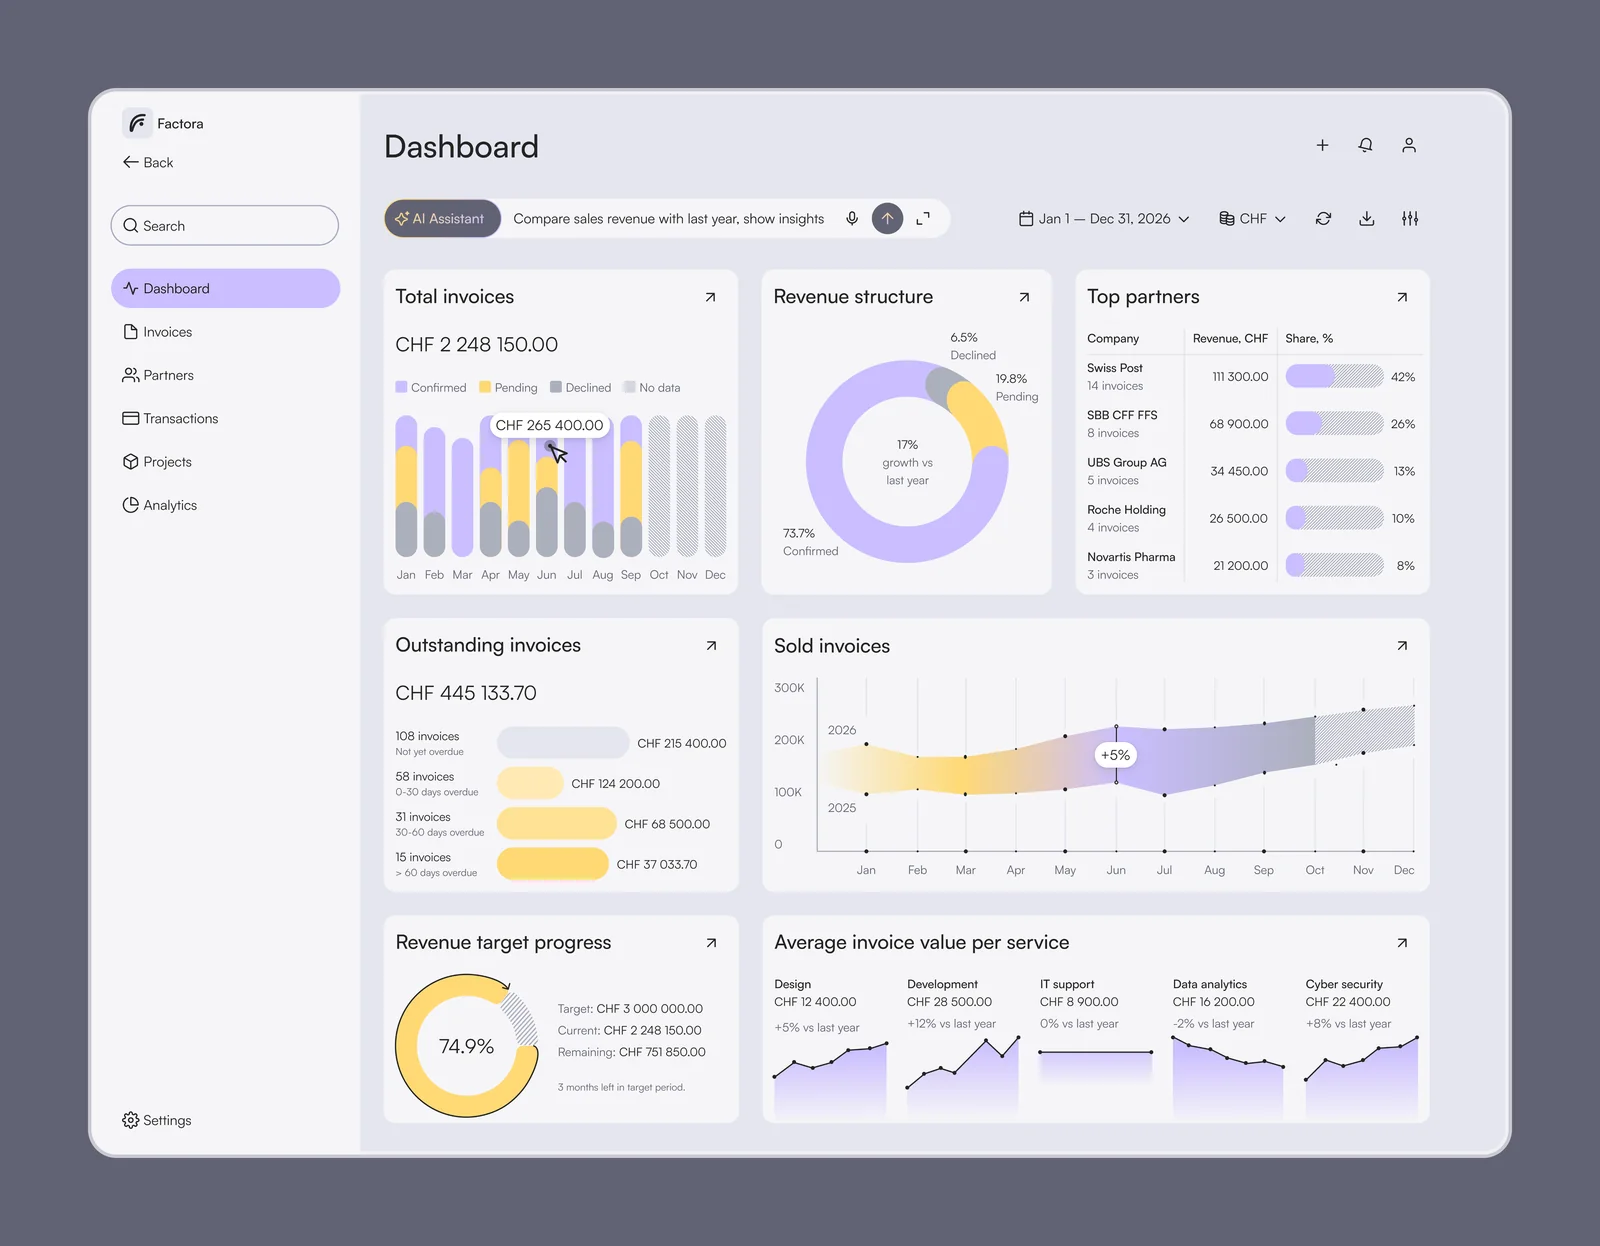
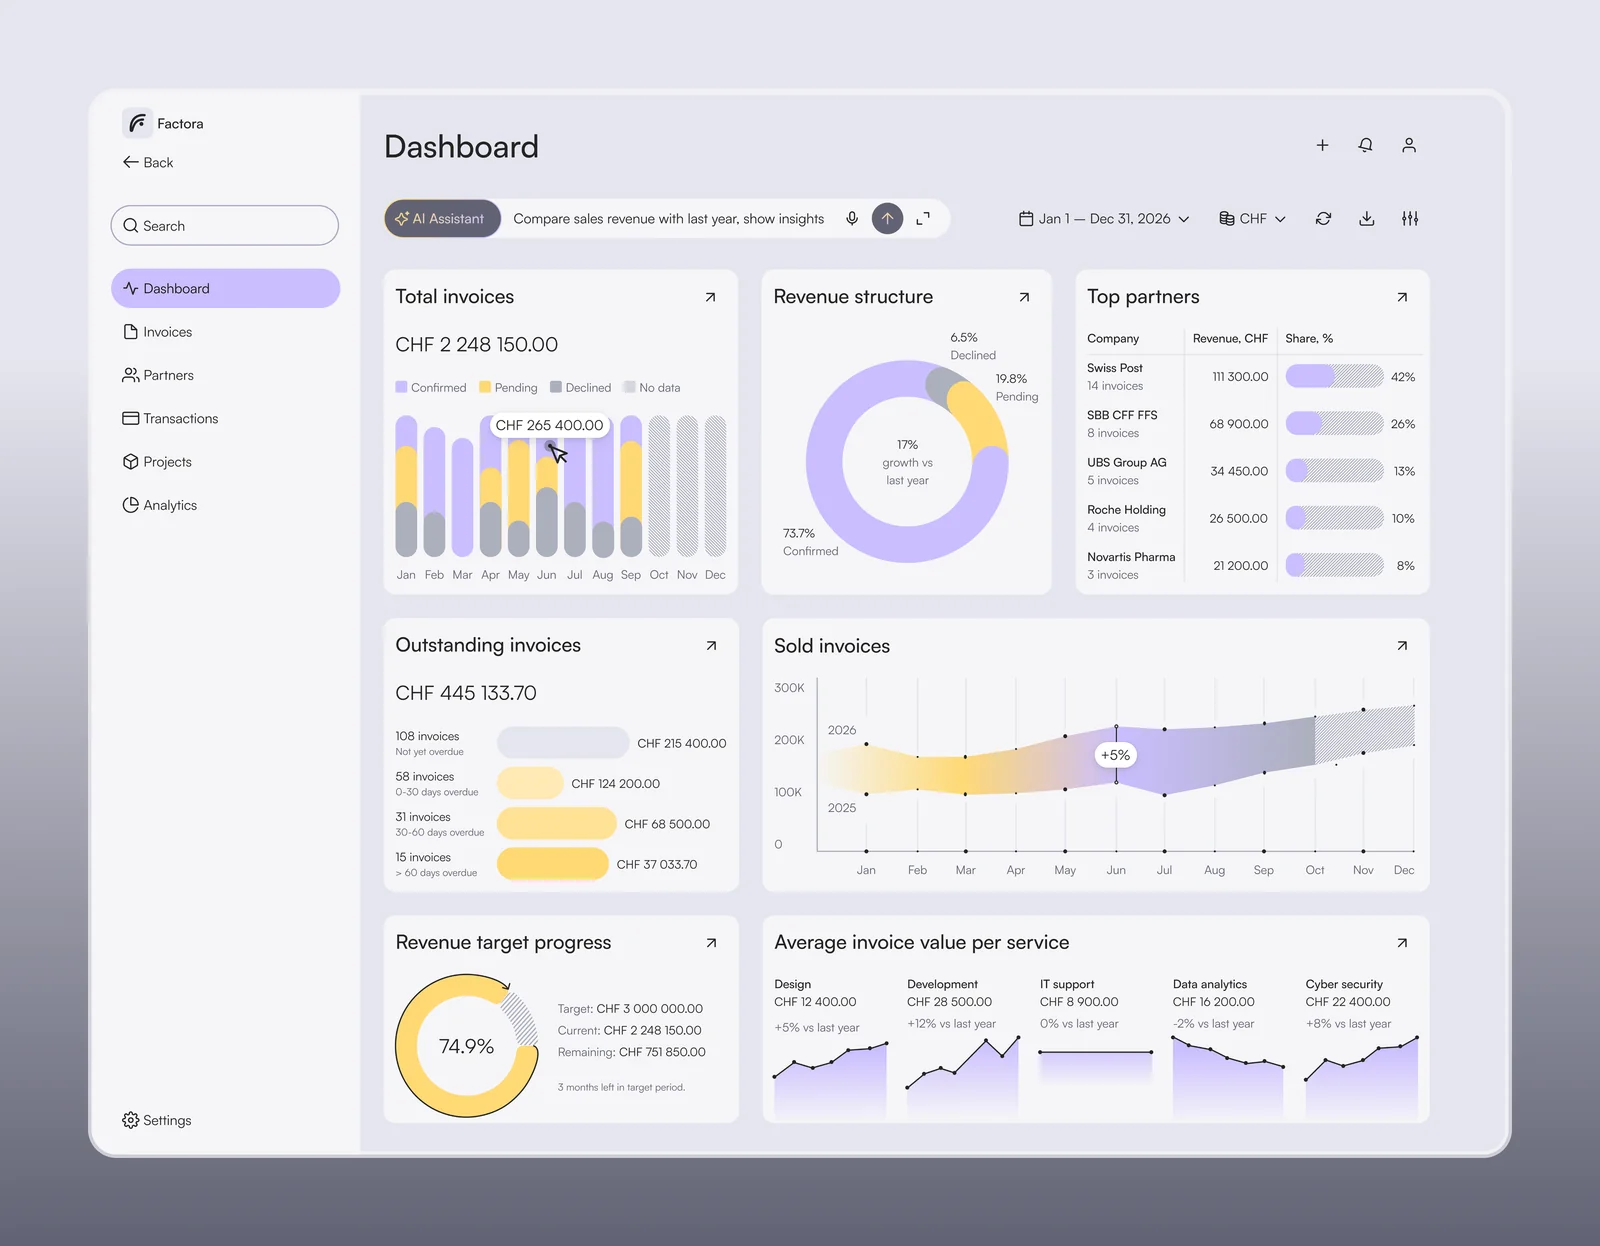
Thinner eye outline

Changed region(s): [[0.0, 0.0, 1.0, 0.8844]]

diff --git a/cursor.js b/cursor.js
@@ -17,6 +17,22 @@ let outlineY = 0;
 let lastFrame = 0;
 let following = false;
 
+// Eye pupil: drifts toward the direction the pointer is travelling and
+// settles back to centre when it stops. Only rendered while the "View"
+// badge is open; stays centred for reduced-motion visitors.
+const eyeIris = document.querySelector(".cursor-eye-iris");
+const reduceMotion = window.matchMedia("(prefers-reduced-motion: reduce)");
+const PUPIL_MAX_X = 3.6;
+const PUPIL_MAX_Y = 2.2;
+let lastPointerX = 0;
+let lastPointerY = 0;
+let lookX = 0; // target, in eye units
+let lookY = 0;
+let pupilX = 0; // rendered
+let pupilY = 0;
+
+const clamp = (v, max) => Math.max(-max, Math.min(max, v));
+
 function followLoop(now) {
   const dt = lastFrame ? Math.min(64, now - lastFrame) : 16;
   lastFrame = now;
@@ -25,7 +41,20 @@ function followLoop(now) {
   outlineY += (pointerY - outlineY) * ease;
   cursorOutline.style.translate = `${outlineX.toFixed(2)}px ${outlineY.toFixed(2)}px`;
 
-  if (Math.abs(pointerX - outlineX) > 0.1 || Math.abs(pointerY - outlineY) > 0.1) {
+  // The look target decays toward centre, so the eye relaxes once the
+  // pointer rests; the pupil itself eases after the target.
+  const decay = Math.pow(0.88, dt / 16.67);
+  lookX *= decay;
+  lookY *= decay;
+  const follow = 1 - Math.pow(1 - 0.2, dt / 16.67);
+  pupilX += (lookX - pupilX) * follow;
+  pupilY += (lookY - pupilY) * follow;
+  if (eyeIris) {
+    eyeIris.style.transform = `translate(${pupilX.toFixed(2)}px, ${pupilY.toFixed(2)}px)`;
+  }
+  const eyeMoving = Math.abs(pupilX) > 0.02 || Math.abs(pupilY) > 0.02;
+
+  if (eyeMoving || Math.abs(pointerX - outlineX) > 0.1 || Math.abs(pointerY - outlineY) > 0.1) {
     requestAnimationFrame(followLoop);
   } else {
     following = false;
@@ -36,6 +65,15 @@ function followLoop(now) {
 function moveCursor(e) {
   pointerX = e.clientX;
   pointerY = e.clientY;
+
+  if (cursorDot.classList.contains("cursor-view") && !reduceMotion.matches) {
+    const dx = pointerX - lastPointerX;
+    const dy = pointerY - lastPointerY;
+    lookX = clamp(lookX + dx * 0.7, PUPIL_MAX_X);
+    lookY = clamp(lookY + dy * 0.7, PUPIL_MAX_Y);
+  }
+  lastPointerX = pointerX;
+  lastPointerY = pointerY;
 
   if (!cursorDot.classList.contains("is-visible")) {
     // First movement: start the outline on the pointer, not at 0,0.

diff --git a/main.css b/main.css
@@ -59,7 +59,9 @@ p {
   justify-content: center;
   transform: translate(-50%, -50%) scale(0.4);
   opacity: 0;
-  transition: transform var(--dur-base) var(--ease-spring),
+  /* Slow, smooth grow/shrink between the resting dot and the "View"
+     badge, so the change of size is clearly visible both ways. */
+  transition: transform 600ms cubic-bezier(0.45, 0, 0.2, 1),
     opacity var(--dur-fast) ease;
 }
 
@@ -67,16 +69,25 @@ p {
   transform: translate(-50%, -50%) scale(1);
 }
 
-.cursor-arrow {
-  width: 16px;
-  height: 16px;
+/* The eye inside the "View" badge: hidden on the small resting dot,
+   it opens (fades in, lids scaling up from a slit) as the badge grows. */
+.cursor-eye {
+  width: 32px;
+  height: 32px;
   display: block;
   opacity: 0;
-  transition: opacity var(--dur-fast) ease;
+  transform: scaleY(0.2);
+  transition: opacity 300ms ease,
+    transform 500ms var(--ease-out);
 }
 
-.cursor-dot.cursor-view .cursor-arrow {
+.cursor-dot.cursor-view .cursor-eye {
   opacity: 1;
+  transform: scaleY(1);
+}
+
+.cursor-eye-iris {
+  will-change: transform;
 }
 
 .cursor-outline {
@@ -97,7 +108,7 @@ p {
   pointer-events: none;
   transform: translate(-50%, -50%) scale(0.625);
   opacity: 0;
-  transition: transform var(--dur-slow) var(--ease-spring),
+  transition: transform 750ms cubic-bezier(0.45, 0, 0.2, 1),
     opacity var(--dur-fast) ease;
 }
 

diff --git a/index.html b/index.html
@@ -29,7 +29,26 @@
   </head>
 
   <body>
-    <div class="cursor-dot"><img src="./media/arrow-up-right.svg" alt="" class="cursor-arrow" /></div>
+    <div class="cursor-dot">
+      <!-- "View" eye, shown while the cursor is over a project cover. The
+           iris group follows the pointer's direction (cursor.js). -->
+      <svg class="cursor-eye" viewBox="0 0 26 26" width="32" height="32" aria-hidden="true" focusable="false">
+        <defs>
+          <clipPath id="cursor-eye-shape">
+            <path d="M2.5 13C6.6 6.6 19.4 6.6 23.5 13C19.4 19.4 6.6 19.4 2.5 13Z" />
+          </clipPath>
+        </defs>
+        <path d="M2.5 13C6.6 6.6 19.4 6.6 23.5 13C19.4 19.4 6.6 19.4 2.5 13Z" fill="#fff8ec" />
+        <g clip-path="url(#cursor-eye-shape)">
+          <g class="cursor-eye-iris">
+            <circle cx="13" cy="13" r="4.6" fill="#31a0cd" />
+            <circle cx="13" cy="13" r="2.1" fill="#1f1f1f" />
+            <circle cx="14.4" cy="11.6" r="0.9" fill="#fff8ec" />
+          </g>
+        </g>
+        <path d="M2.5 13C6.6 6.6 19.4 6.6 23.5 13C19.4 19.4 6.6 19.4 2.5 13Z" fill="none" stroke="#1f1f1f" stroke-width="1" stroke-linejoin="round" />
+      </svg>
+    </div>
     <div class="cursor-outline"></div>
 
     <section class="hero-screen">
